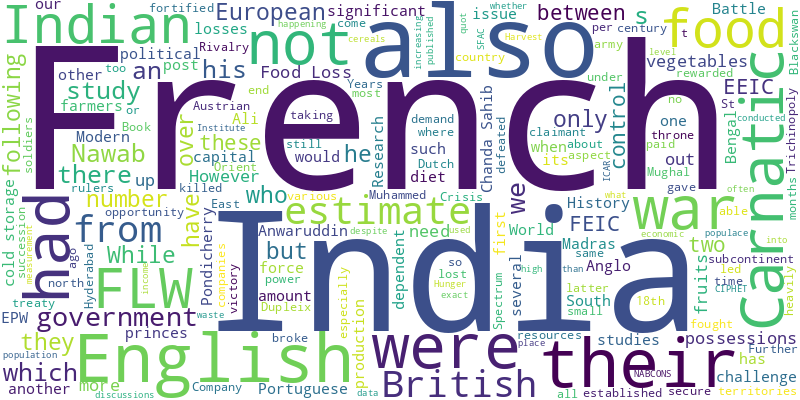
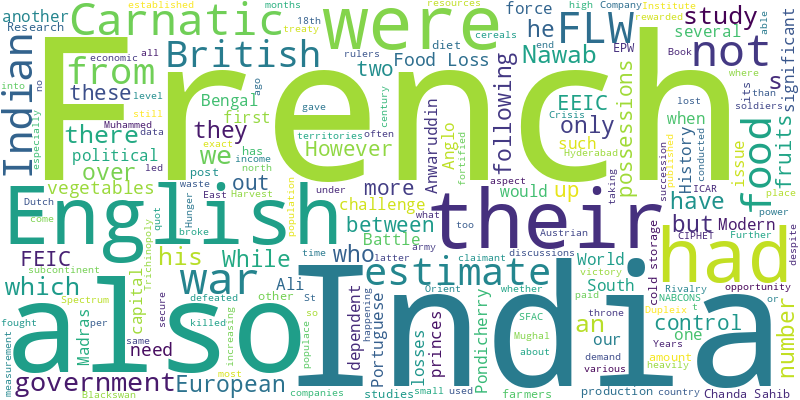
🤖 Auto-update stats

diff --git a/stats.html b/stats.html
@@ -18,7 +18,7 @@
     <section class="stats-section stat-card"><h2>📖 Readability</h2><p><strong>Anglo-French-Rivalry.html:</strong> Flesch: 48.6, Grade: 11.3</p><p><strong>foodloss.html:</strong> Flesch: 37.2, Grade: 14.0</p></section>
     <section class="stats-section stat-card"><h2>🙂 Sentiment</h2><p><strong>Anglo-French-Rivalry.html:</strong> Polarity: 0.03, Subjectivity: 0.22</p><p><strong>foodloss.html:</strong> Polarity: 0.04, Subjectivity: 0.48</p></section>
     <section class="stats-section stat-card"><h2>🏷️ Named Entities</h2><ul><li>NORP: 58.000</li><li>DATE: 27.000</li><li>GPE: 24.000</li><li>ORG: 12.000</li><li>PERSON: 9.000</li><li>CARDINAL: 8.000</li><li>LANGUAGE: 7.000</li><li>ORDINAL: 3.000</li><li>LOC: 2.000</li><li>FAC: 1.000</li></ul></section>
-    <section class="stats-section stat-card"><h2>🔑 Keywords</h2><p><strong>Anglo-French-Rivalry.html:</strong> french, their, english, carnatic, india, were, had, war, british, his</p><p><strong>foodloss.html:</strong> food, flw, we, also, study, not, have, estimates, estimate, fruits</p></section>
+    <section class="stats-section stat-card"><h2>🔑 Keywords</h2><p><strong>Anglo-French-Rivalry.html:</strong> french, their, english, carnatic, india, had, were, british, war, his</p><p><strong>foodloss.html:</strong> food, flw, we, also, study, not, have, fruits, estimates, need</p></section>
     <section class="stats-section stat-card"><h2>🌈 Word Cloud</h2><img src="wordcloud.png" alt="Word Cloud" /></section>
   </div>
 </body>